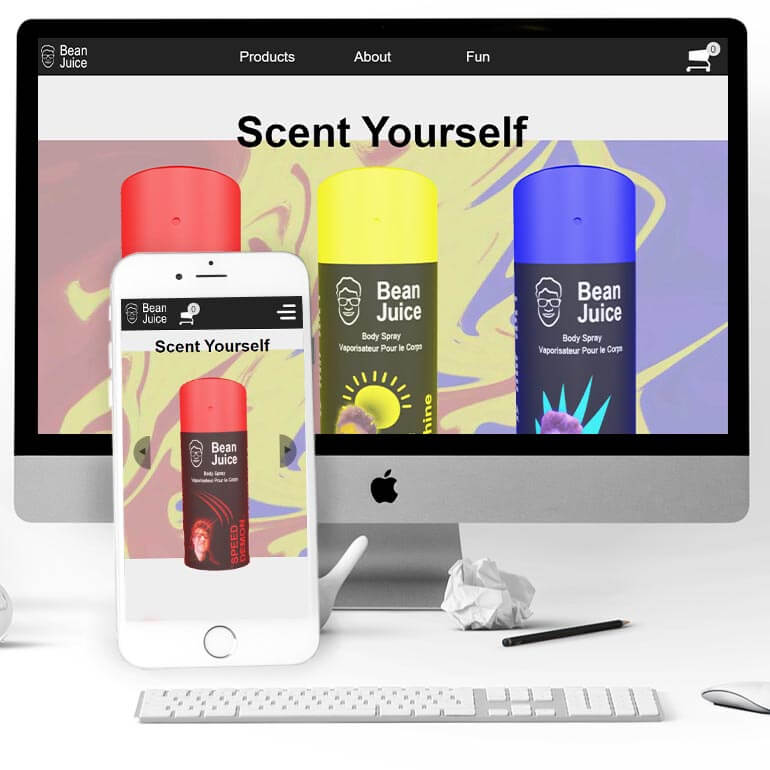
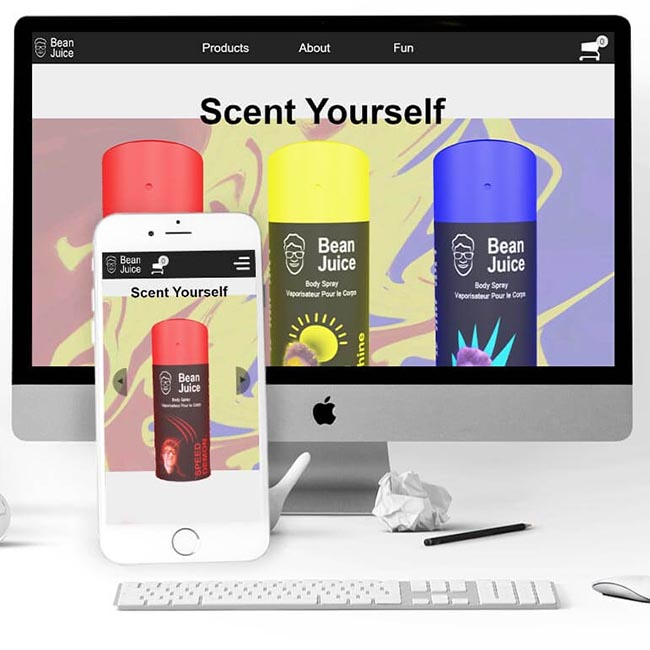
fix images and small update on Section component

diff --git a/src/pages/index.js b/src/pages/index.js
@@ -1,4 +1,5 @@
 import React from "react";
+
 import Navbar from '../components/navbar/navbar.js';
 import Section from '../components/section.js';
 import Skills from '../components/skills.js';
@@ -46,7 +47,7 @@ class Home extends React.Component{
   updatePortfolioContainer() {
     if (typeof window !== `undefined`){
       this.setState({
-            height: (window.innerWidth > 1200) ? 25 : (window.innerWidth > 960) ? 33.33 : (window.innerWidth > 768) ? 50 : 100,
+            height: (window.innerWidth > 1200) ? 25 : (window.innerWidth > 960) ? 33.33 : (window.innerWidth > 500) ? 50 : 100,
       })
     }
   }
@@ -80,7 +81,7 @@ class Home extends React.Component{
                 <StationaryButton css={{marginTop: '20px'}} title="Contact" link="/contact"/>
               </FlexShow>
             </div>
-            <img className="owenbean-img" src={OwenBean} alt="Owen G. Bean"/>
+            <img className="owenbean-img lazyload" src={OwenBean} alt="Owen G. Bean" width="300px" />
           </div>
           <div className="expert-container">
               <div className="expert"><img src={CodeIcon} alt="code icon" /><p className="export-text">Code Development</p></div>

diff --git a/src/pageScss/index.scss b/src/pageScss/index.scss
@@ -95,7 +95,7 @@ html {
       }
       .abouttitle {
         font-size: 18px;
-        font-weight: 200;
+        font-weight: 300;
         margin: 0;
       }
     }
@@ -211,28 +211,6 @@ html {
     .section-title {
       margin: 0;
       text-align: center;
-    }
-  }
-
-  .action-container {
-    background: rgb(255, 255, 255);
-    background: radial-gradient(
-      circle,
-      rgba(255, 255, 255, 1) 0%,
-      rgba(212, 212, 212, 1) 50%,
-      rgba(237, 237, 237, 1) 100%
-    );
-    padding: 32px 0;
-    margin: 128px 0 0 0;
-    display: grid;
-    grid-gap: 12px;
-    @media screen and (min-width: $phonesize) {
-      grid-template-columns: auto auto auto;
-      justify-content: space-around;
-    }
-    @media screen and (max-width: $phonesize) {
-      grid-template-columns: auto;
-      justify-content: center;
     }
   }
 }

diff --git a/src/components/section.js b/src/components/section.js
@@ -7,7 +7,7 @@ const STYLE = {
         fontSize: '48px',
         textAlign: 'center',
         margin: '0 0 24px 0',
-        padding: '64px 0 0 0',
+        padding: '32px 0 0 0',
         letterSpacing: '2px',
         fontWeight: '700',
     },
@@ -17,9 +17,13 @@ const STYLE = {
 }
 
 export default function Section(props){
+    var marginBottom = 0;
+    if(typeof(props.actionName) != "undefined" && props.actionName != ""){
+        marginBottom = '64px'
+    }
     return(
         <div>
-            <section style={STYLE.section}>
+            <section style={{...STYLE.section, ...props.cssContainer, marginBottom}}>
                 <h4 style={{...STYLE.header, ...props.css}}>{props.header}</h4>
                 {props.children}
                 <SideButton title={props.actionName} link={props.link}/>

diff --git a/src/components/navbar/navlinks.js b/src/components/navbar/navlinks.js
@@ -37,7 +37,7 @@ class Navlinks extends React.Component{
             <div>
                 <div onMouseOver={this.showLinks} onMouseLeave={this.hideLinks} style={this.state.css} className="nav-links-container">
                     {this.props.links.map((string) => 
-                        <Link className="nav-link" to={`/${string.toLowerCase().replace(/\s/g, '')}`}>{string}</Link>
+                        <Link className="nav-link" to={`/${string.toLowerCase().replace(/\s/g, '')}`} key={string}>{string}</Link>
                     )};
                 </div>
             </div>

diff --git a/src/components/navbar/sidebar.js b/src/components/navbar/sidebar.js
@@ -7,7 +7,7 @@ class Sidebar extends React.Component{
 
     render(){
         const LINKS = this.props.sidelinks.map((string) => 
-            <Link className="nav-side-link" to={`/${string.toLowerCase().replace(/\s/g, '')}`} style={{color: 'white'}}>{string.charAt(0).toUpperCase() + string.substring(1, string.length)}</Link>
+            <Link className="nav-side-link" to={`/${string.toLowerCase().replace(/\s/g, '')}`} style={{color: 'white'}} key={string}>{string.charAt(0).toUpperCase() + string.substring(1, string.length)}</Link>
         );
 
         return(

diff --git a/src/pages/portfolio.js b/src/pages/portfolio.js
@@ -44,7 +44,7 @@ class Portfolio extends React.Component{
     updatePortfolioContainer() {
         if (typeof window !== `undefined`){
         this.setState({
-                height: (window.innerWidth > 1200) ? 25 : (window.innerWidth > 960) ? 33.33 : (window.innerWidth > 768) ? 50 : 100,
+                height: (window.innerWidth > 1200) ? 25 : (window.innerWidth > 960) ? 33.33 : (window.innerWidth > 500) ? 50 : 100,
         })
         }
     }

diff --git a/src/pages/graphics.js b/src/pages/graphics.js
@@ -47,7 +47,7 @@ class Graphics extends React.Component{
     updatePortfolioContainer() {
         if (typeof window !== `undefined`){
         this.setState({
-                height: (window.innerWidth > 1200) ? 25 : (window.innerWidth > 960) ? 33.33 : (window.innerWidth > 768) ? 50 : 100,
+                height: (window.innerWidth > 1200) ? 25 : (window.innerWidth > 960) ? 33.33 : (window.innerWidth > 500) ? 50 : 100,
         })
         }
     }

diff --git a/src/pages/websites.js b/src/pages/websites.js
@@ -39,7 +39,7 @@ class Websites extends React.Component{
     updatePortfolioContainer() {
         if (typeof window !== `undefined`){
         this.setState({
-                height: (window.innerWidth > 1200) ? 25 : (window.innerWidth > 960) ? 33.33 : (window.innerWidth > 768) ? 50 : 100,
+                height: (window.innerWidth > 1200) ? 25 : (window.innerWidth > 960) ? 33.33 : (window.innerWidth > 500) ? 50 : 100,
         })
         }
     }

diff --git a/src/components/footer/footerlinks.js b/src/components/footer/footerlinks.js
@@ -6,7 +6,7 @@ class FooterLinks extends React.Component{
     render(){
 
         const LINKS = this.props.footerlinks.map((string) => 
-        <Link className="footer-link" style={{color: 'white'}} to={`/${string.toLowerCase().replace(/\s/g, '')}`}>{string}</Link>
+        <Link className="footer-link" style={{color: 'white'}} to={`/${string.toLowerCase().replace(/\s/g, '')}`} key={string}>{string}</Link>
     );
 
         return(

diff --git a/src/components/navbar/navbar.js b/src/components/navbar/navbar.js
@@ -43,7 +43,7 @@ class Navbar extends React.Component{
         var navLinksHTML = [];
         for(let i = 0; i < Object.keys(LINKS).length; i++){
             navLinksHTML.push(
-                <Navlinks className="nav-links-container" links={LINKS[Object.keys(LINKS)[i]]}/>
+                <Navlinks className="nav-links-container" links={LINKS[Object.keys(LINKS)[i]]} key={LINKS[Object.keys(LINKS)[i]]}/>
             )
         }
 

diff --git a/src/components/portfolioDisplay.js b/src/components/portfolioDisplay.js
@@ -15,7 +15,7 @@ class PortfolioDisplay extends React.Component{
 
     changeSize() {
         this.setState({
-            backgroundImageSize: (window.innerWidth > 1200) ? 25 : (window.innerWidth > 960) ? 33.33 : (window.innerWidth > 768) ? 50 : 100,
+            backgroundImageSize: (window.innerWidth > 1200) ? 25 : (window.innerWidth > 960) ? 33.33 : (window.innerWidth > 500) ? 50 : 100,
         })
     }
 

diff --git a/gatsby-config.js b/gatsby-config.js
@@ -11,12 +11,6 @@ module.exports = {
   },
   plugins: [`gatsby-plugin-sass`, `gatsby-plugin-react-helmet`,
   {
-    resolve: `gatsby-plugin-html-attributes`,
-    options: {
-      lang: 'en'
-    }
-  },
-  {
     resolve: `gatsby-plugin-sitemap`,
     options: {
       exclude: [`/404`],
